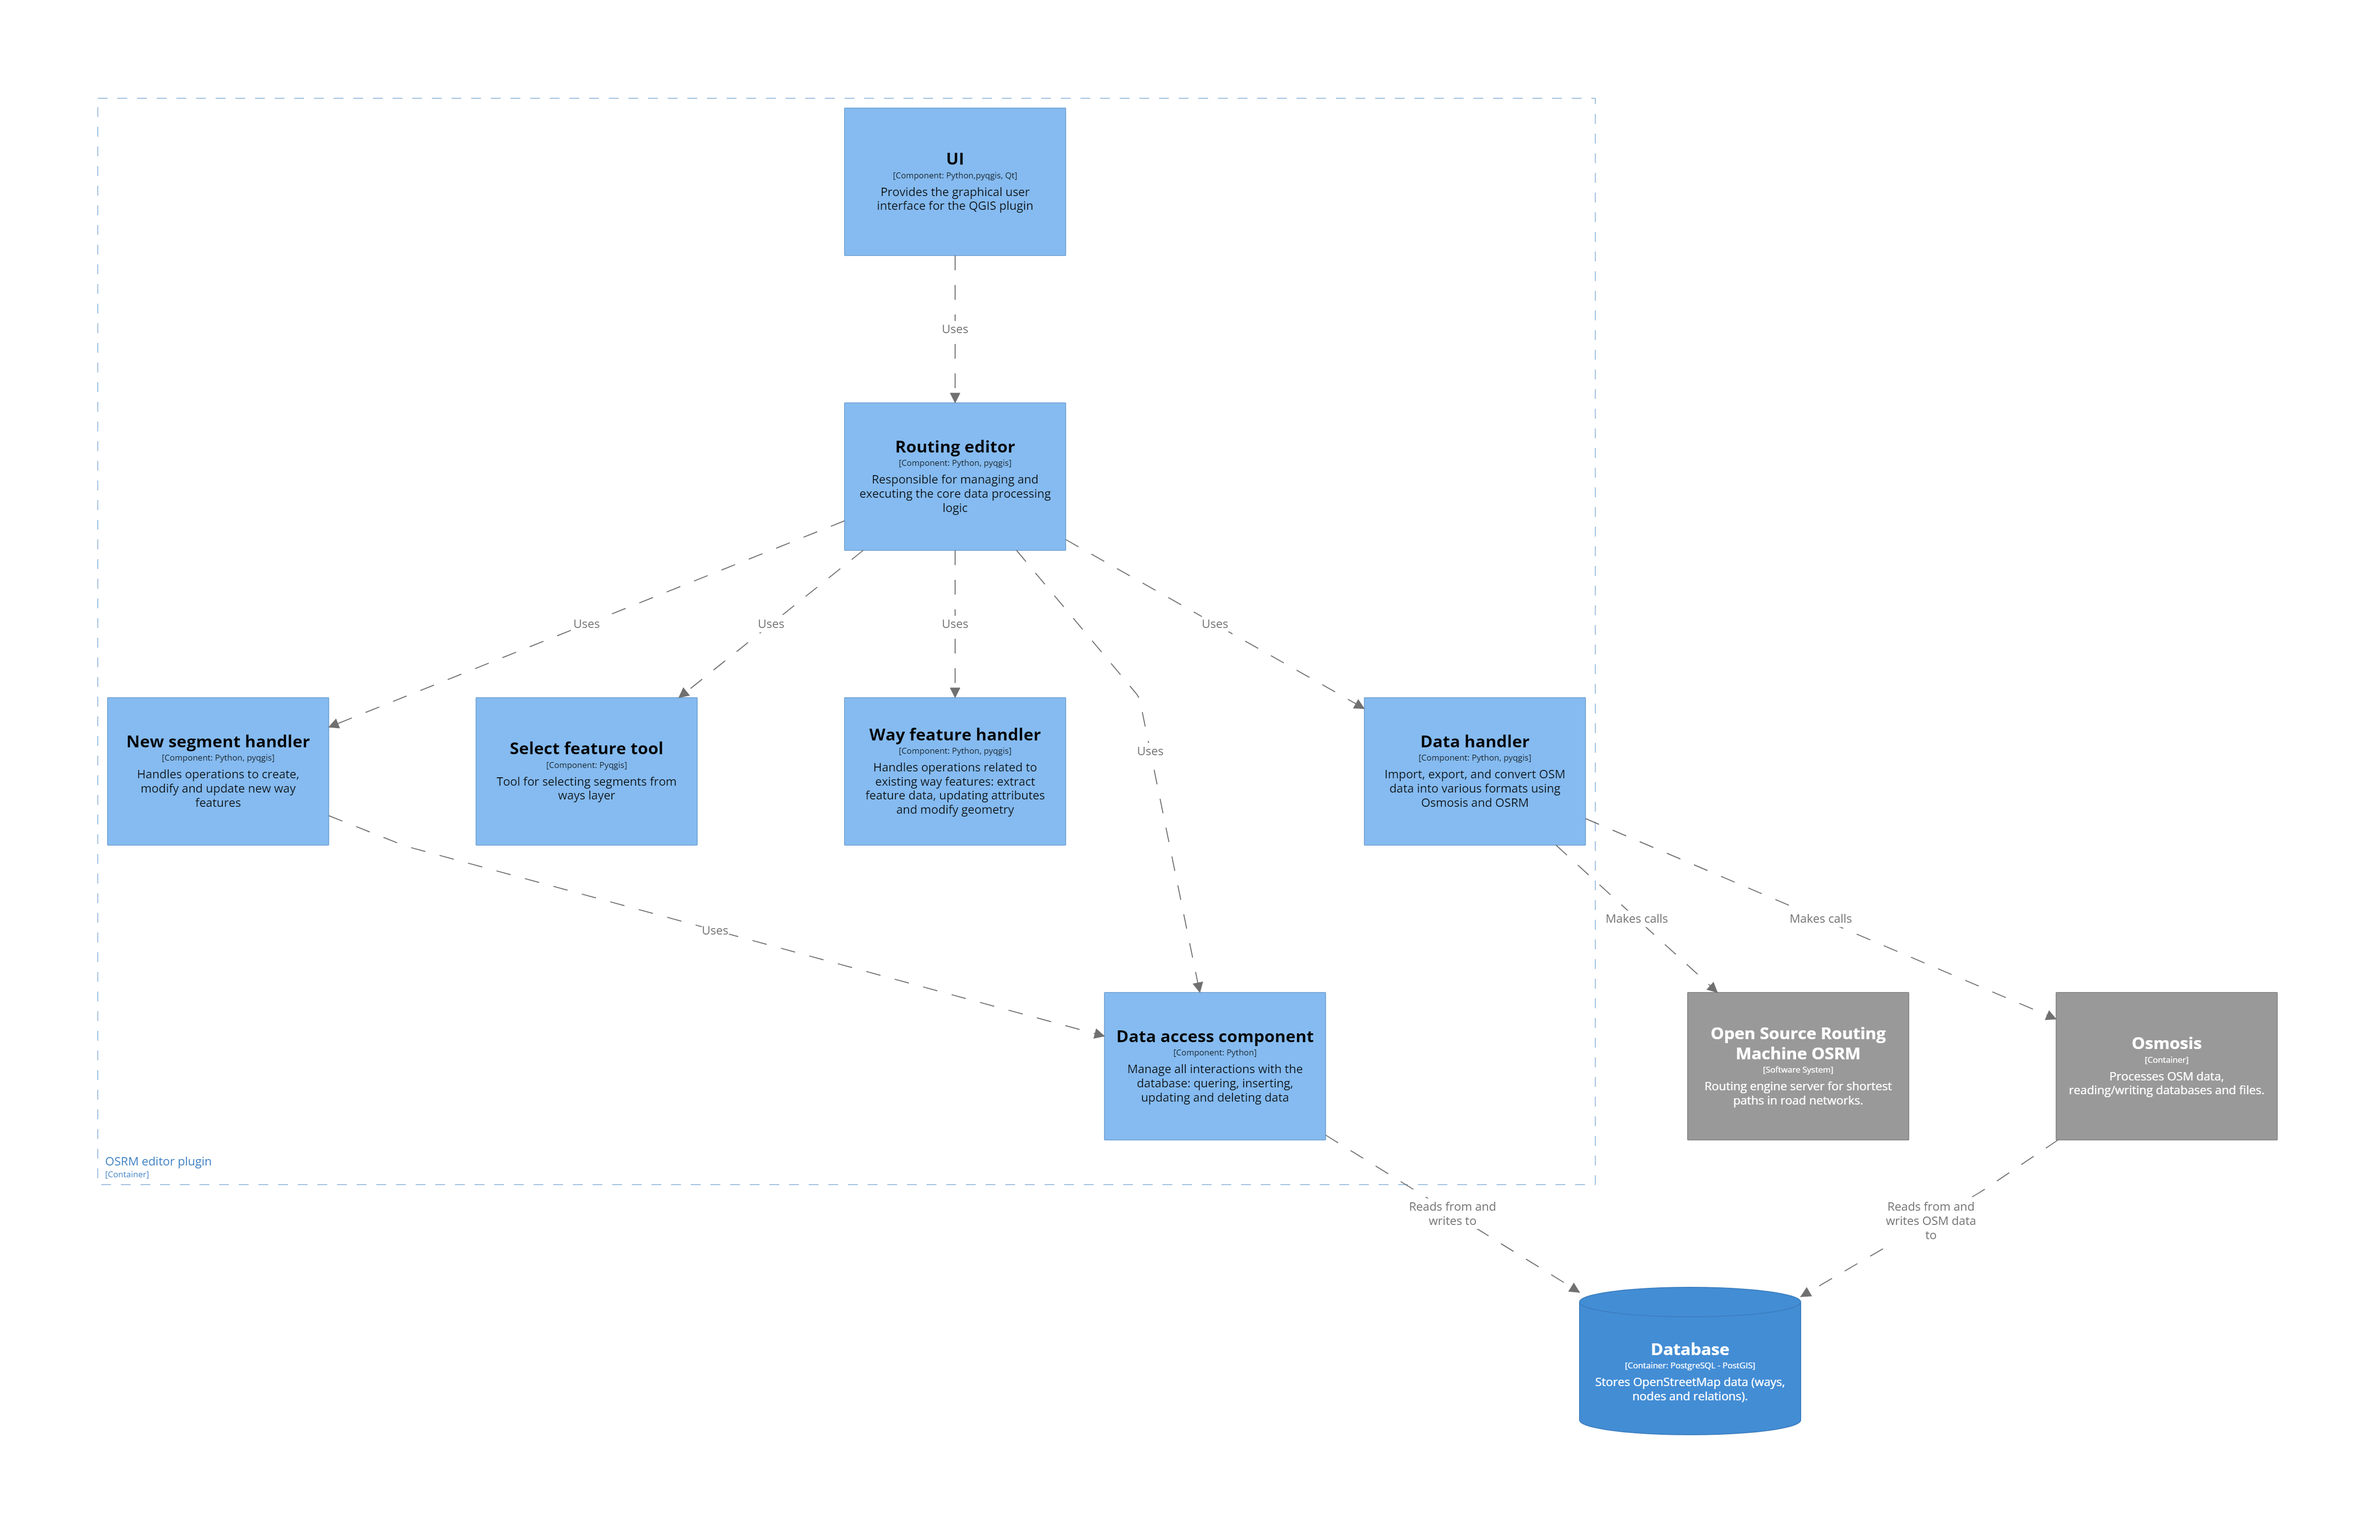
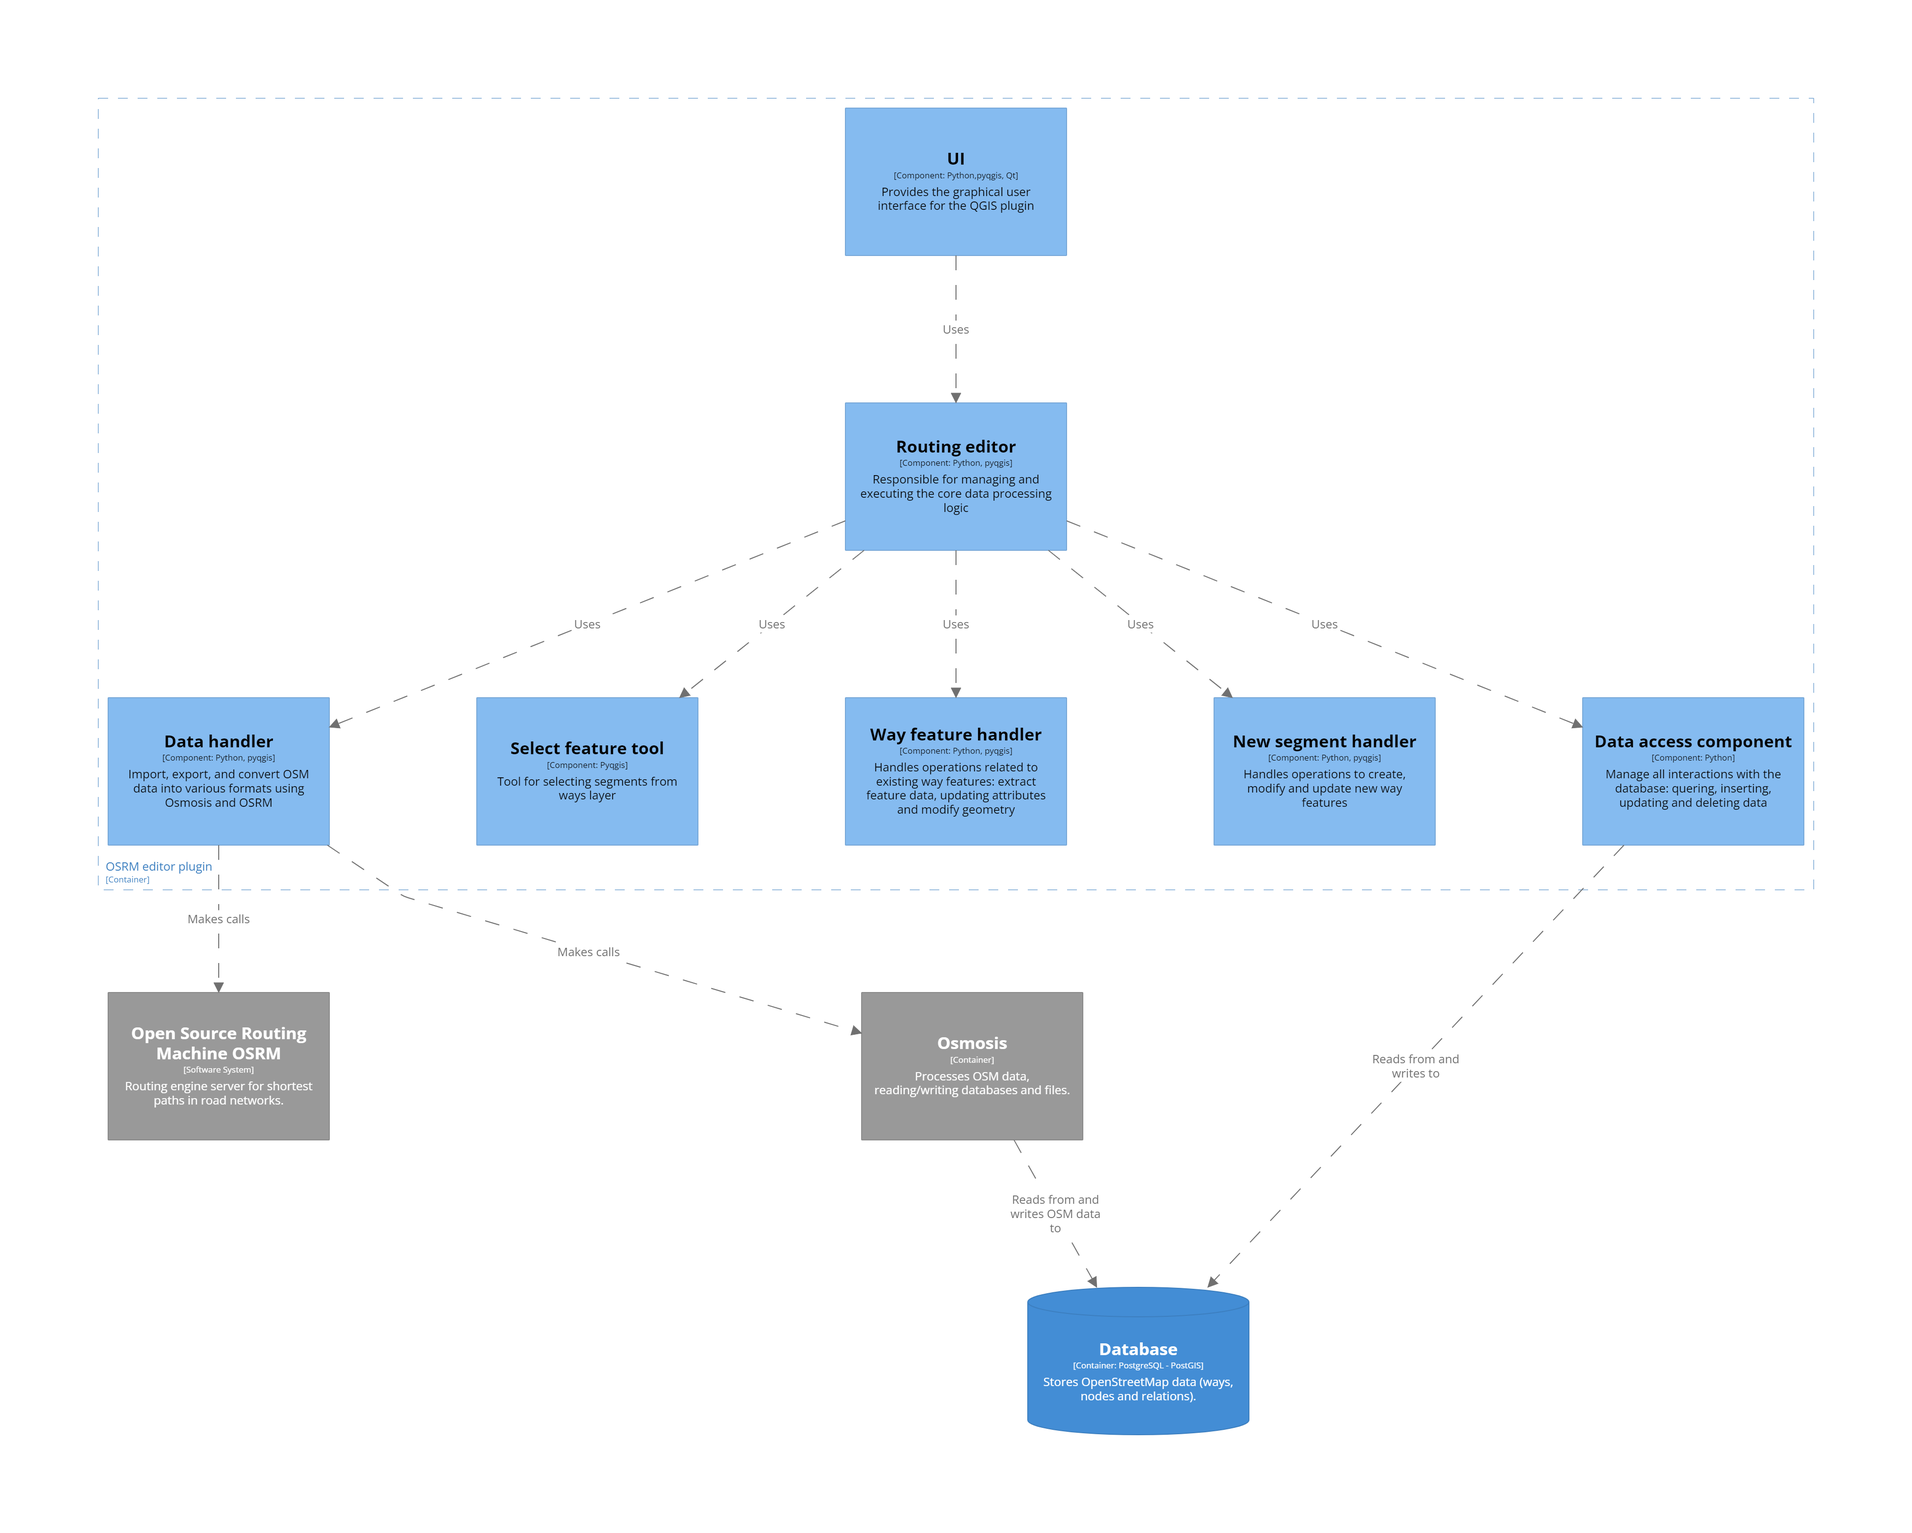
Corrected components diagram. No relation between New segment and database functions.

diff --git a/osrm_new_segment.py b/osrm_new_segment.py
@@ -1,6 +1,5 @@
 from datetime import datetime
 from qgis.core import QgsWkbTypes, QgsGeometry
-from .database_functions import *
 
 class NewSegment:
     def __init__(self, segment_layer):
